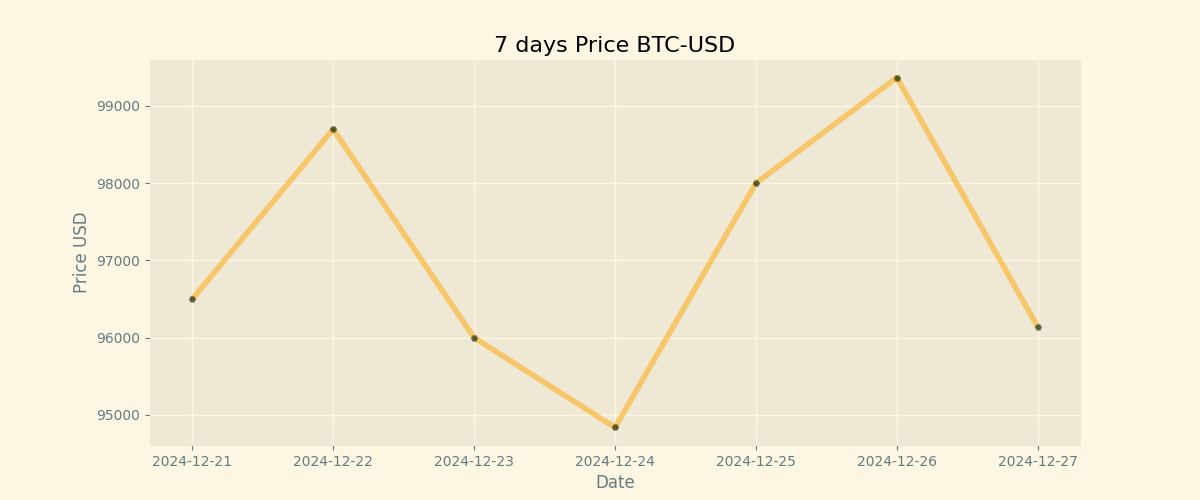
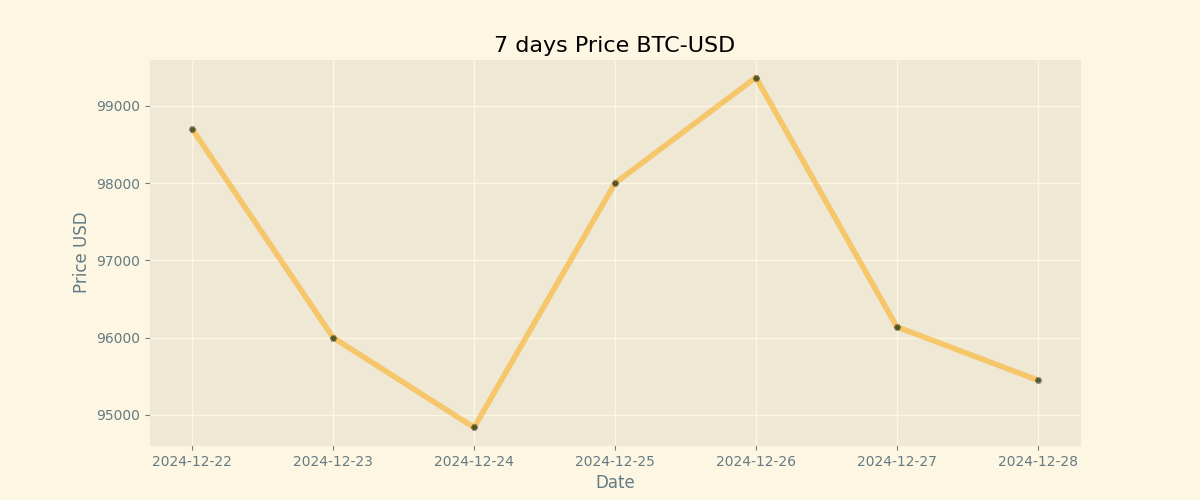
Duty Updates 2024-12-28

diff --git a/README.md b/README.md
@@ -9,8 +9,8 @@
 
 | Currency | Price           |
 | -------- | --------------- |
-| **BTC**  | **$ 96139.68** |
-| **ETH**  | **$ 3317.49** |
+| **BTC**  | **$ 95450.93** |
+| **ETH**  | **$ 3386.97** |
 
 ## BTC chart
 
